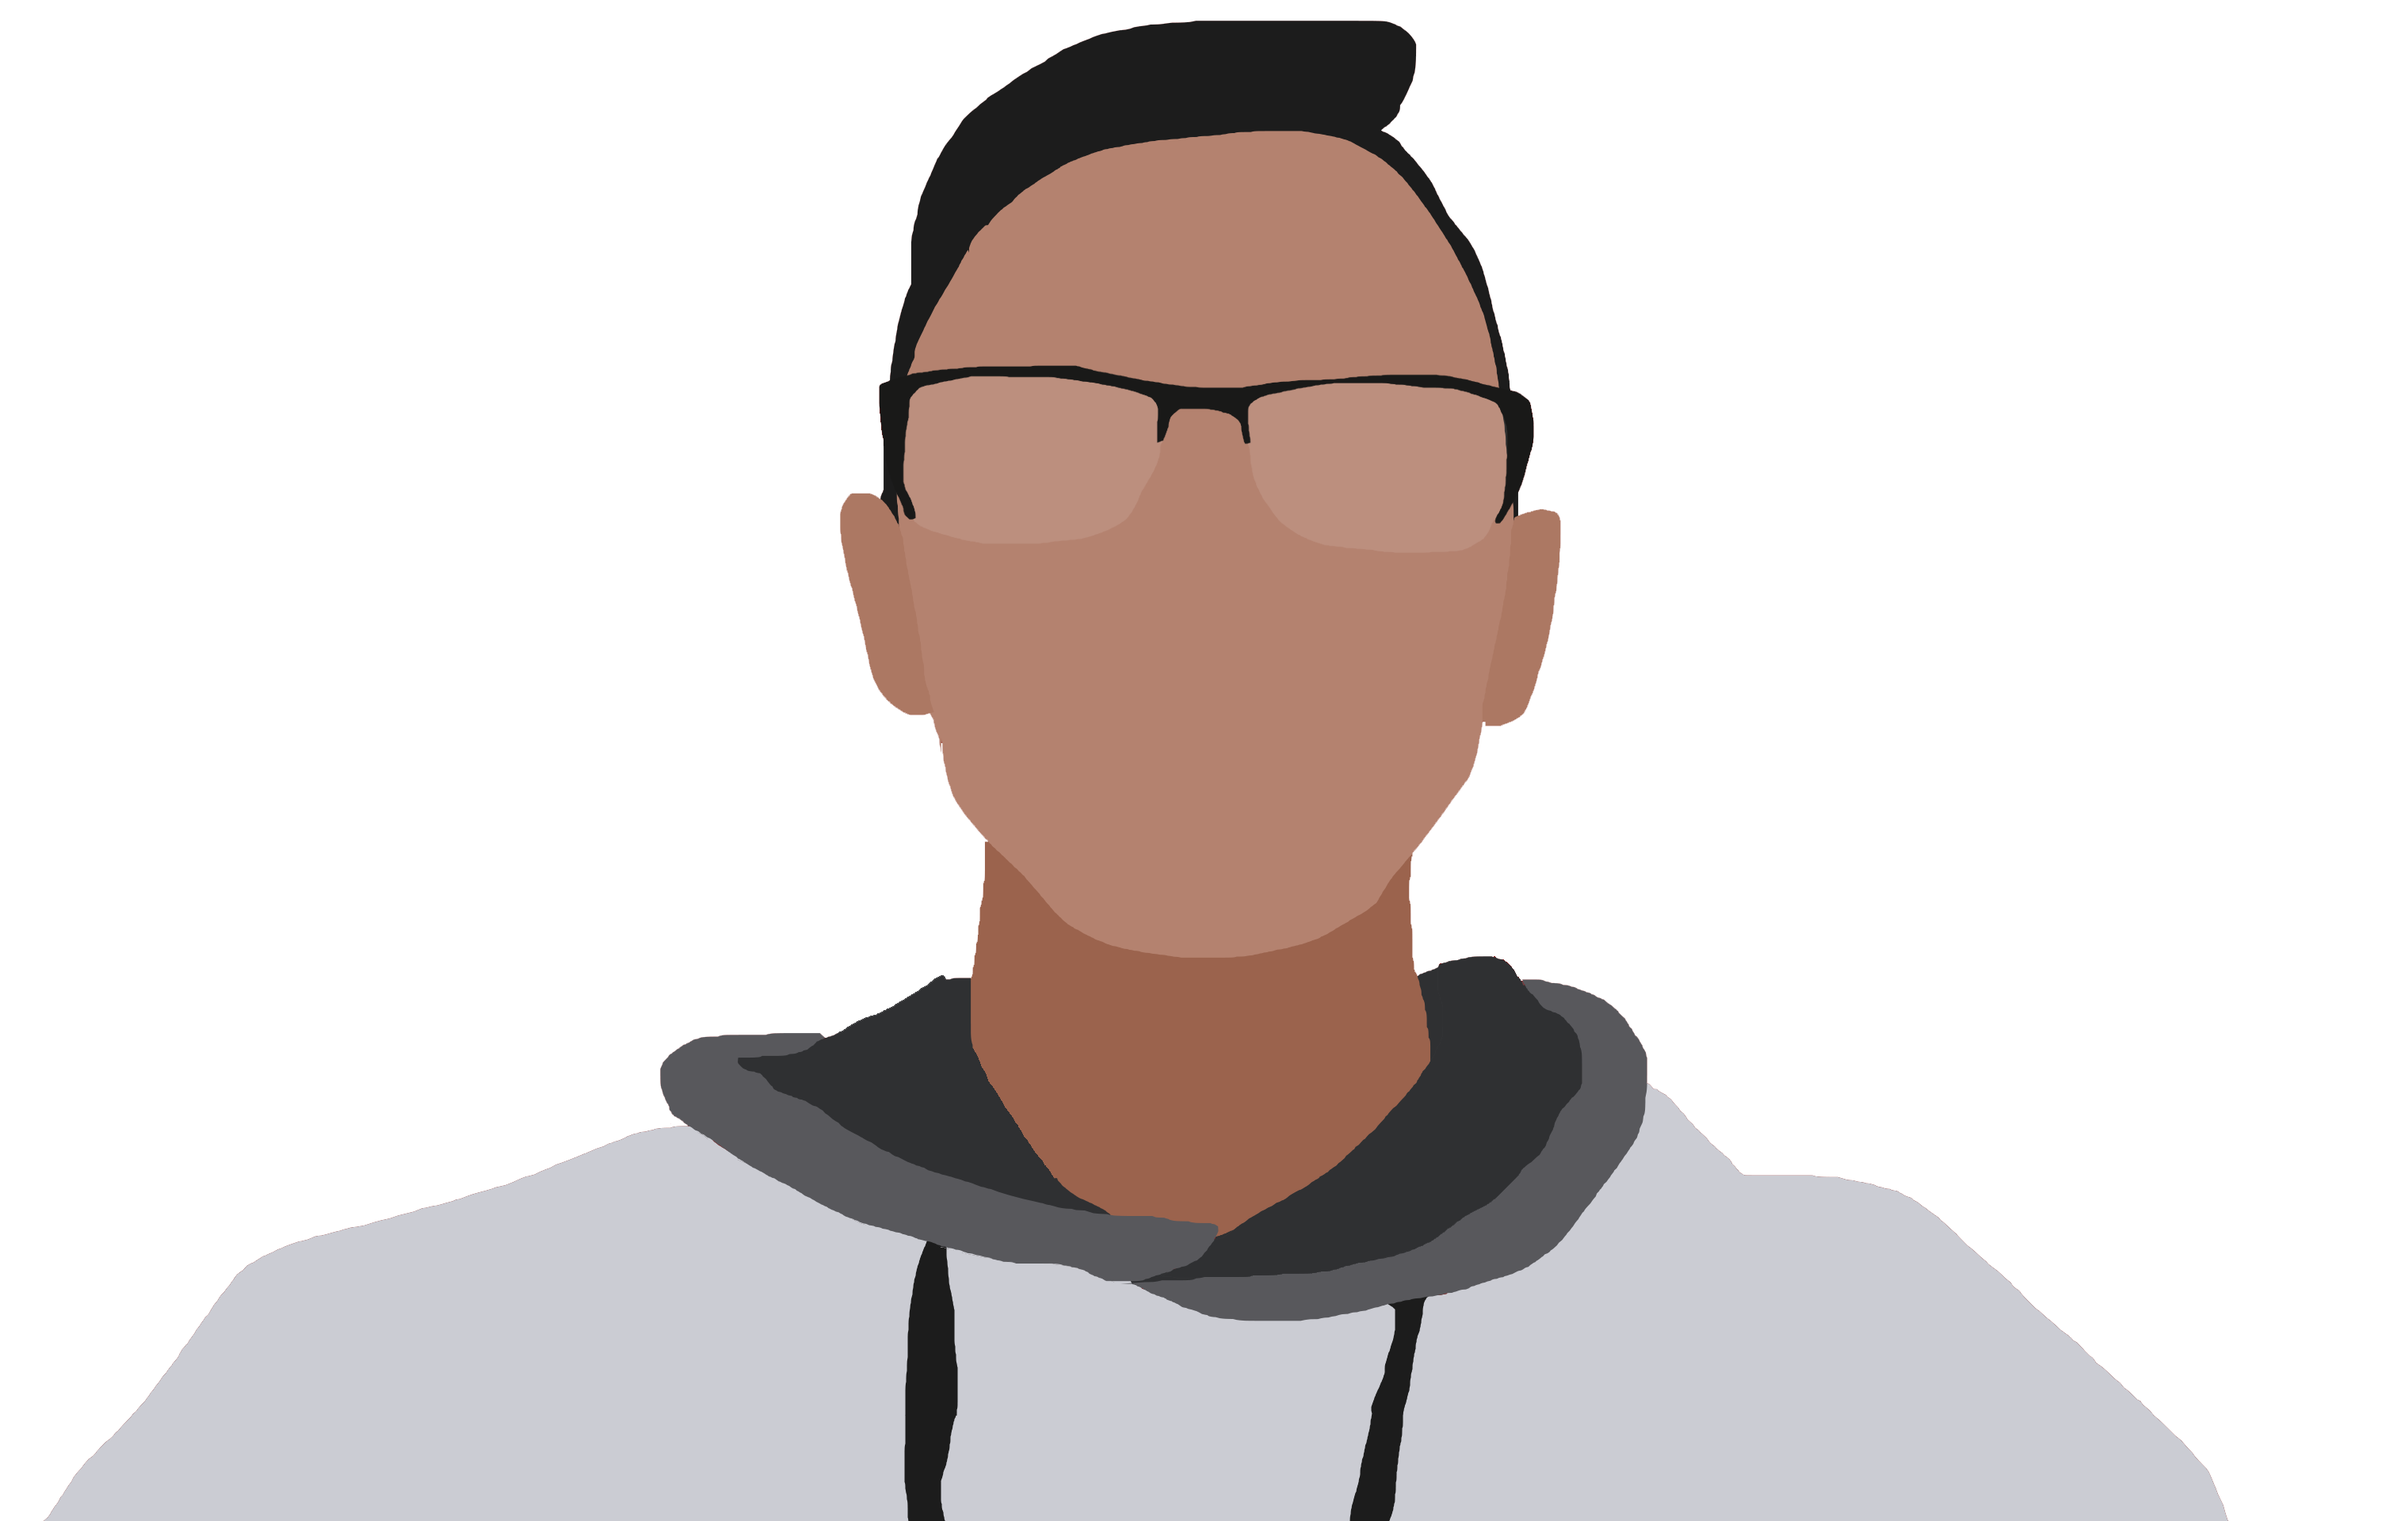
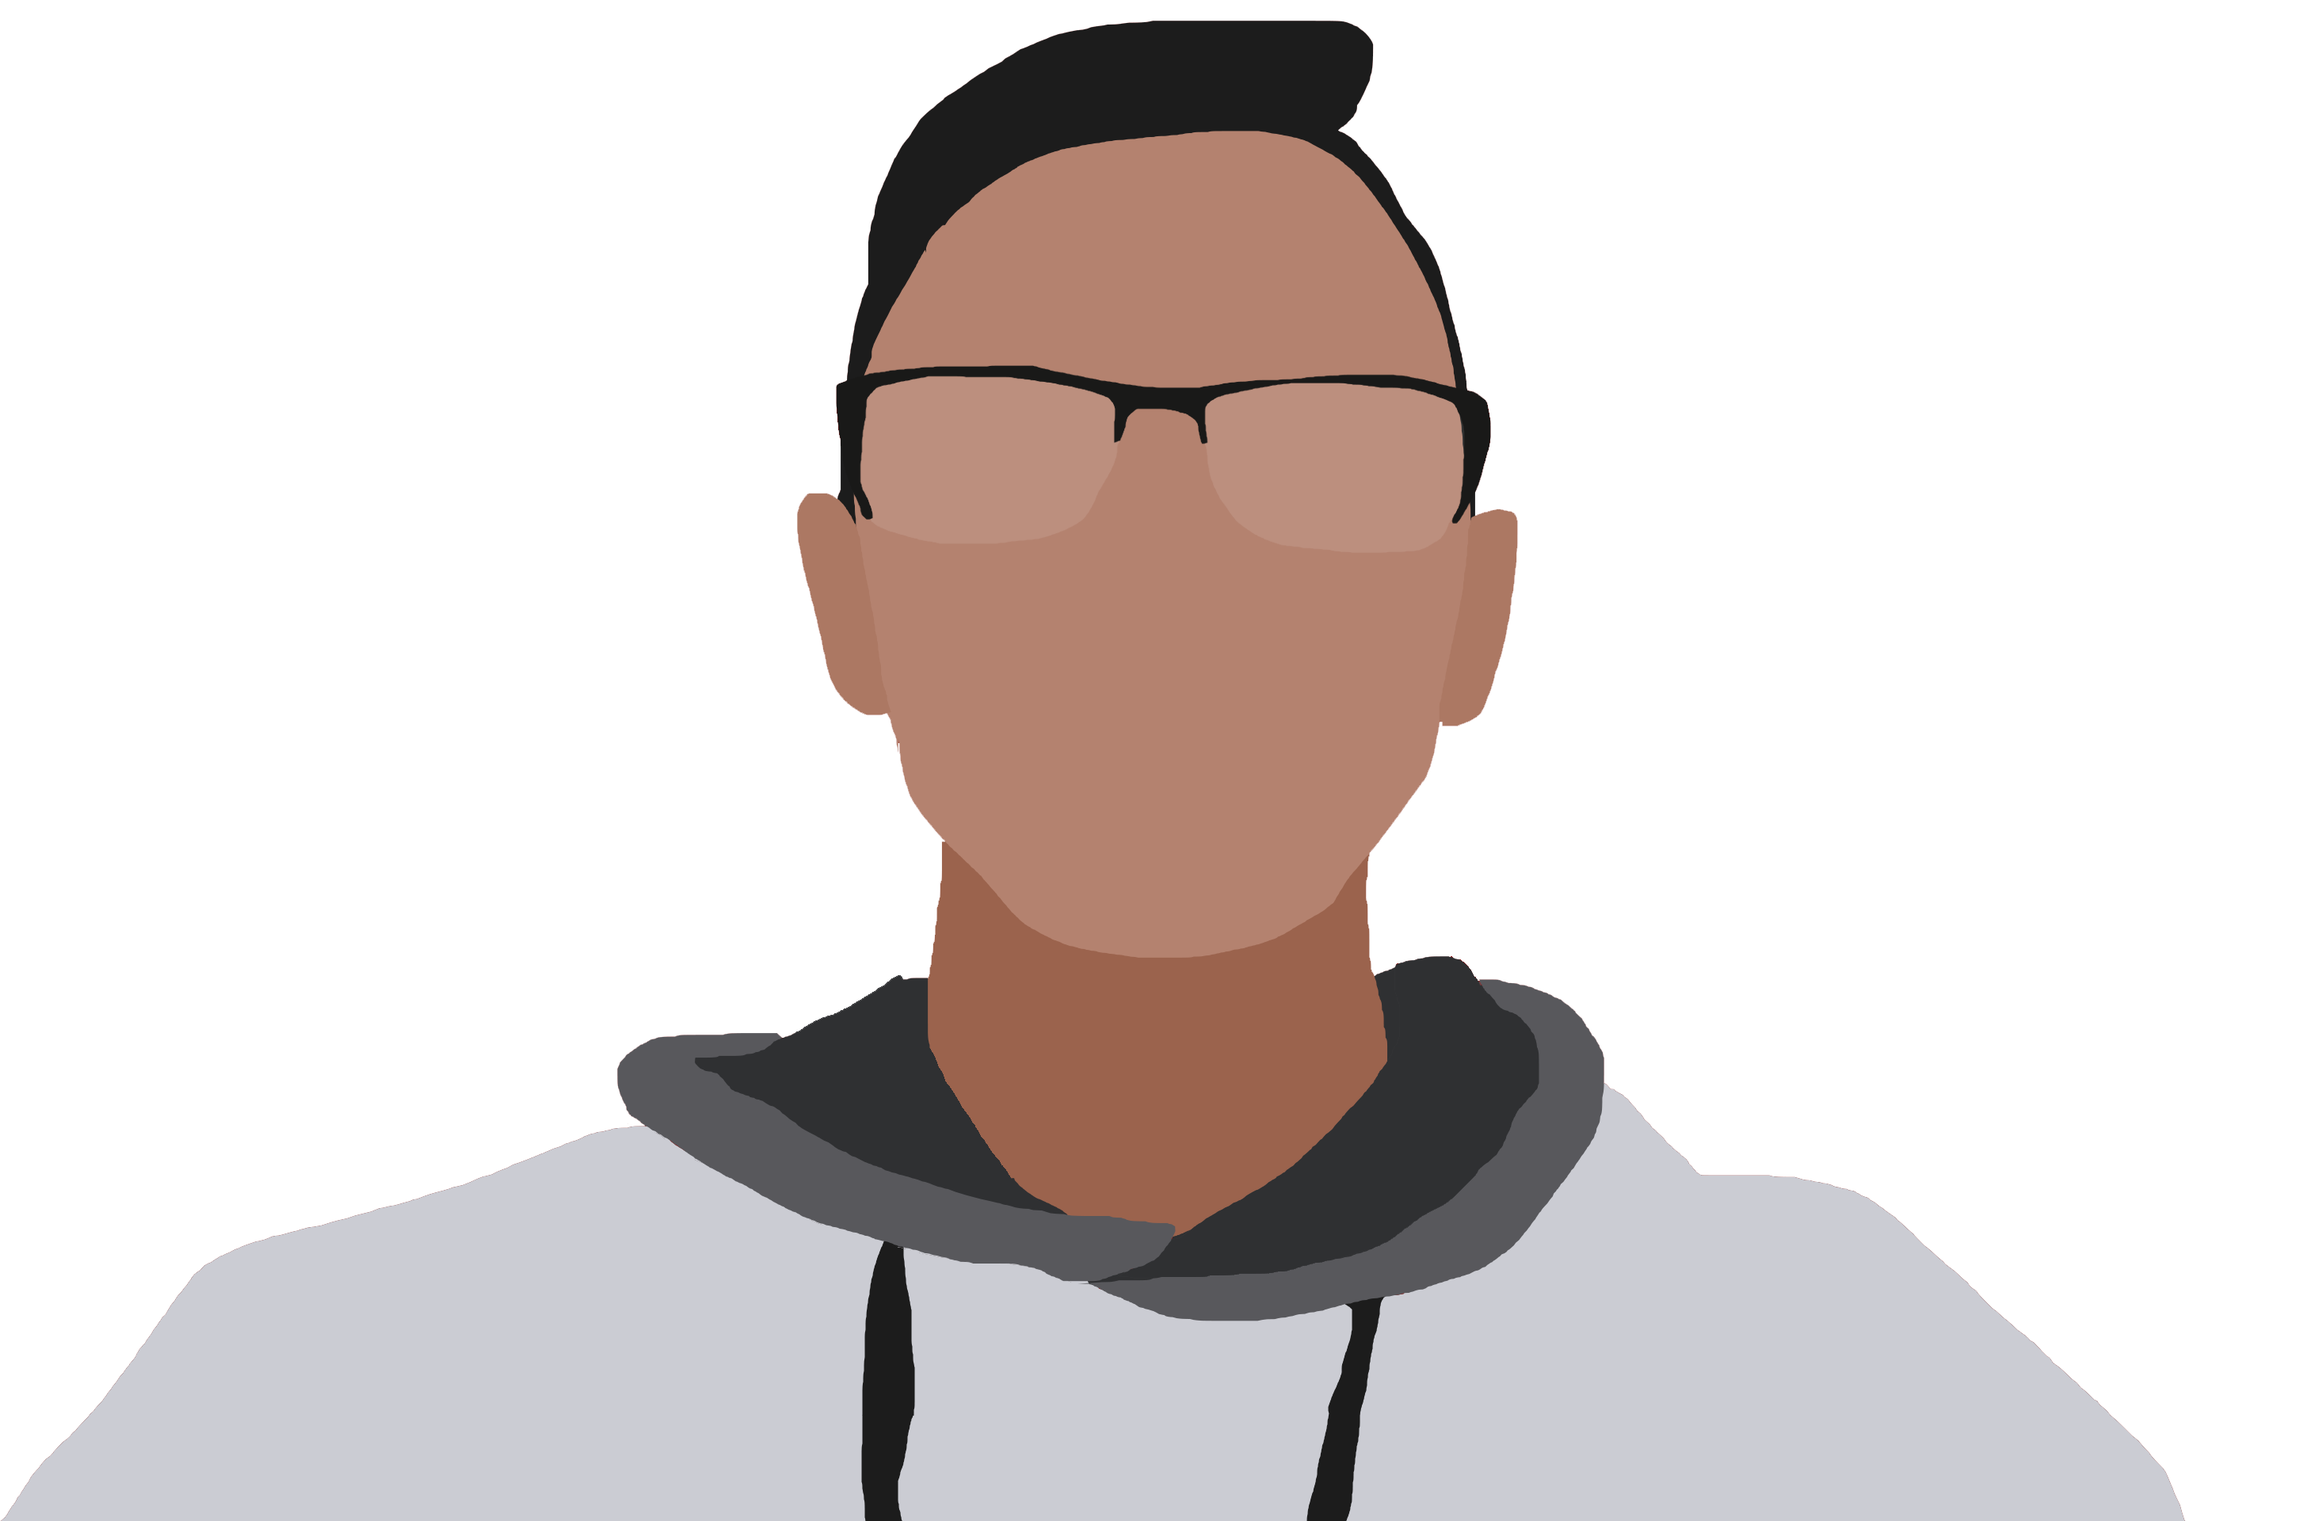
Add projects section
Replace profile-pic.png with a better cropped version

diff --git a/index.html b/index.html
@@ -28,27 +28,50 @@
     <meta name="theme-color" content="#ffffff">
   </head>
 
-  <body>
+  <body onresize="resizeProjectDivs()">
 
-    <img src="resources/img/profile-pic.png" class="main-pic" id="main-pic">
+    <img src="resources/img/profile-pic.png" id="main-pic">
+    <div id="overlay"></div><div id="transition-overlay"></div>
 
     <div class="container">
       <h1 id="main-text" class="main-text">Param Thakkar</h1>
-      <p id="icons" class="icons" onmouseover="highlight(this)" onmouseout="unHighlight(this)">
+      <span id="icons" class="icons" onmouseover="highlight(this)" onmouseout="unHighlight(this)">
         <a title="paramt" class="icon" target="_blank" href="https://github.com/paramt"><i class="fab fa-github"></i></a>
         <a title="contact@param.me" class="icon" target="_blank" href="mailto:contact@param.me"><i class="fas fa-envelope"></i></a>
         <a title="paramt" class="icon" target="_blank" href="https://www.linkedin.com/in/paramt/"><i class="fab fa-linkedin"></i></a>
         <a title="@paramoham" class="icon" target="_blank" href="https://twitter.com/paramoham"><i class="fab fa-twitter"></i></a>
         <a title="xparam" class="icon" target="_blank" href="https://www.instagram.com/xparam/"><i class="fab fa-instagram"></i></a>
-      </p>
+      </span>
     </div>
 
-    <div class="separator">
+    <div class="content" id="c1">
+      <h1>Projects</h1>
+      <div class="projects">
+        <div class="project" id="p1">
+          <h2>Meme Adviser</h2>
+          <p>A reddit bot that analyzes the market at <a href="https://www.reddit.com/r/MemeEconomy" target="_blank">r/MemeEconomy</a> and provides insightful information on investments.</p>
+          <div class="project-more" id="pm1" onclick="window.open('https://www.param.me/MemeAdviser', '_blank')">
+            <p>View project</p>
+          </div>
+        </div>
 
-    </div>
+        <div class="project" id="p2">
+          <h2>Mathu</h2>
+          <p>An AI that adapts and grows to individual students' needs. Mathü came first place at the <i>Imagine Hackathon</i> in September 2018.</p>
+          <div class="project-more" id="pm2" onclick="window.open('https://mathu.ca', '_blank')">
+            <p>View project</p>
+          </div>
+        </div>
 
-    <div class="content">
-      <h1><br><br>Coming Soon</h1>
+        <div class="project" id="p3">
+          <h2>1 Point</h2>
+          <p>A dynamic URL shortener capable of pointing users to different destinations based on region, client, hardware, or other similar factors.</p>
+          <div class="project-more" id="pm3" onclick="window.open('https://1pt.co', '_blank')">
+            <p>View project</p>
+          </div>
+        </div>
+
+      </div>
     </div>
 
     <span id="arrow"><i class="fas fa-angle-down"></i></span>

diff --git a/resources/js/script.js b/resources/js/script.js
@@ -1,13 +1,19 @@
-document.getElementById('main-pic').ondragstart = function() { return false; };
+window.onbeforeunload = function () {
+  window.scrollTo(0, 0);
+}
+
 window.onload = function(){
+  resizeProjectDivs();
+  shiftProjectExtra();
+
   window.setTimeout(function(){
     document.getElementById("arrow").style.opacity = "1";
     document.getElementById('arrow').classList = 'animated bounce';
   }, 1500)
 
   window.setTimeout(function(){
-    document.getElementById("main-pic").className = "main-pic animated fadeInHalf";
-  }, 200)
+    document.getElementById("transition-overlay").style.opacity = "0";
+  }, 0)
 
   window.setTimeout(function(){
     document.getElementById("main-text").style.visibility = "visible";
@@ -34,10 +40,41 @@ function unHighlight(element){
 
 window.addEventListener("scroll", function(){
   var scrollTop = window.pageYOffset || (document.documentElement || document.body.parentNode || document.body).scrollTop;
+
   if(scrollTop !== 0){
     document.getElementById('arrow').classList = 'animated fadeOutUp';
   } else {
     document.getElementById('arrow').classList = 'animated bounce';
   }
 
+  if(scrollTop < document.body.offsetHeight){
+    document.body.style.backgroundColor = "#932524";
+  }
+
+  if(scrollTop > document.body.offsetHeight){
+    document.body.style.backgroundColor = "#5e825f";
+  }
+
+  if(scrollTop > document.body.offsetHeight*1.75 + document.getElementById("c1").offsetHeight){
+    document.body.style.backgroundColor = "#9da4b8";
+  }
+
 }, false);
+
+function resizeProjectDivs(){
+  var project1 = document.getElementById("p1");
+  var project2 = document.getElementById("p2");
+  var project3 = document.getElementById("p3");
+
+  var biggest = Math.max(project1.offsetHeight, project2.offsetHeight, project3.offsetHeight);
+
+  project1.style.height = biggest + "px";
+  project2.style.height = biggest + "px";
+  project3.style.height = biggest + "px";
+}
+
+function shiftProjectExtra(){
+  document.getElementById("pm1").style.bottom = "-" + String(parseInt(document.getElementById("pm1").offsetHeight) - 1) + "px";
+  document.getElementById("pm2").style.bottom = "-" + String(parseInt(document.getElementById("pm2").offsetHeight) - 1) + "px";
+  document.getElementById("pm3").style.bottom = "-" + String(parseInt(document.getElementById("pm3").offsetHeight) - 1) + "px";
+}

diff --git a/resources/css/style.css b/resources/css/style.css
@@ -5,12 +5,30 @@
 
 body{
   background-color: #932524;
-  overflow-x: hidden;
+
 }
 
 h1{
   color: white;
   font-size: 5em;
+}
+
+h2{
+  color: white;
+  font-size: 3em;
+}
+
+p{
+  color: white;
+  font-size: 1.5em;
+}
+
+a{
+  color: #4a8cf7;
+}
+
+a:hover{
+  color: white;
 }
 
 html, body, .container{
@@ -25,14 +43,58 @@ html, body, .container{
 }
 
 .content{
+  width: 100%;
+  background-color: black;
+  text-align: center;
   display: flex;
   flex-direction: column;
   align-items: center;
   justify-content: center;
-  margin-bottom: 10%;
+
+  min-height: 100%;
 }
 
-.main-pic{
+.projects{
+  display: flex;
+  flex-direction: row;
+  align-items: center;
+  justify-content: center;
+}
+
+.project{
+  margin: 10px;
+  width: 20vw;
+  background-color: #191919;
+  border-radius: 10px 10px 0 0;
+  padding: 1vh 20px 0.5vh 20px;
+  padding-bottom: 20px;
+  display: flex;
+  flex-direction: column;
+  align-items: center;
+  justify-content: center;
+  position: relative;
+  margin-bottom: 0;
+}
+
+.project-more{
+  width:100%;
+  padding: 2vh 0 2vh 0;
+  border-radius: 0px 0px 10px 10px;
+  background-color:#282828;
+  display: flex;
+  align-items: center;
+  justify-content: center;
+  position: absolute;
+  bottom: -15%;
+  margin: 0px;
+}
+
+.project-more:hover{
+  cursor: pointer;
+  background-color: #333333
+}
+
+#main-pic{
   height: 80vh;
   opacity: 0.4;
   position: fixed;
@@ -40,8 +102,26 @@ html, body, .container{
   right: 0;
   bottom: 0;
   margin: 0 auto;
-  opacity: 0;
   z-index: -1;
+}
+
+#overlay{
+  width: 100%;
+  height: 100vh;
+  background-color: black;
+  position: fixed;
+  opacity: 0.1;
+  z-index: -1;
+}
+
+#transition-overlay{
+  width: 100%;
+  height: 100vh;
+  background-color: white;
+  position: fixed;
+  opacity: 1;
+  z-index: -1;
+  transition: opacity 1.1s;
 }
 
 .main-text{
@@ -55,12 +135,12 @@ html, body, .container{
   visibility: hidden;
 }
 
-a{
+.icons a{
   color: white;
   font-size: 3.5em;
 }
 
-a:hover{
+.icons a:hover{
   color: white !important;
 }
 
@@ -72,7 +152,7 @@ a:hover{
   position: absolute;
   bottom: 5vh;
   left: 0px;
-  width: 100vw;
+  width: 100%;
   font-size: 3em;
   color: white;
   opacity: 0;

diff --git a/resources/css/animate.css b/resources/css/animate.css
@@ -17,10 +17,6 @@
   animation-name: fadeIn;
 }
 
-.fadeInHalf {
-  -webkit-animation-name: fadeInHalf;
-  animation-name: fadeInHalf;
-}
 
 .fadeOutUp {
   -webkit-animation-name: fadeOutUp;
@@ -113,25 +109,6 @@
   }
 }
 
-@-webkit-keyframes fadeInHalf {
-  from {
-    opacity: 0;
-  }
-
-  to {
-    opacity: 0.4;
-  }
-}
-
-@keyframes fadeInHalf {
-  from {
-    opacity: 0;
-  }
-
-  to {
-    opacity: 0.4;
-  }
-}
 
 @-webkit-keyframes fadeOutUp {
   from {
